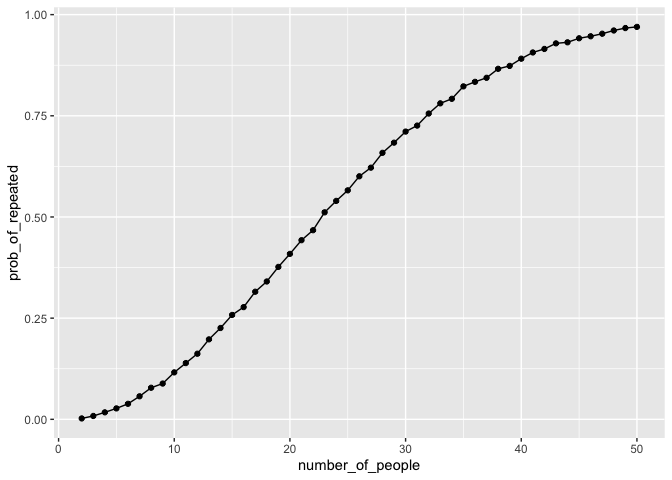
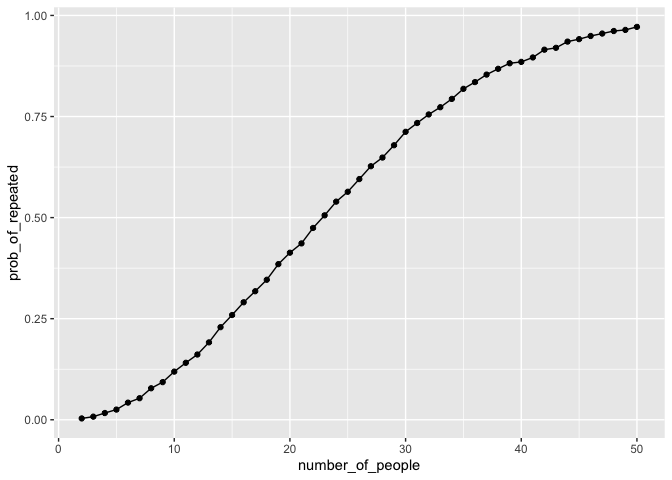
problem3

diff --git a/p8105_hw5_xl3712.md b/p8105_hw5_xl3712.md
@@ -18,7 +18,7 @@ library(tidyverse)
     ## ✖ dplyr::lag()    masks stats::lag()
     ## ℹ Use the conflicted package (<http://conflicted.r-lib.org/>) to force all conflicts to become errors
 
-# Problem 1
+## Problem 1
 
 ``` r
 birthday_repeated = function(n_room) {
@@ -56,7 +56,7 @@ sharing a birthday also increases. This is because larger groups have
 more possible pairs of people, increasing the chance of a birthday
 match.
 
-# Problem 2
+## Problem 2
 
 ``` r
 file_df = tibble(
@@ -250,3 +250,120 @@ but observations generally remained relatively low and did not
 demonstrate a clear increasing trend. In contrast, observations in the
 experimental group generally increased over time and were higher than
 those in control group, especially after approximately week 3.
+
+## Problem 3
+
+``` r
+n = 30
+sigma = 5
+mu = 0
+set.seed(1234)
+sim_t_test = function(mu, n = 30, sigma = 5){
+  sim_data = tibble(
+    x = rnorm(n, mean = mu, sd = sigma)
+  )
+  test_result = t.test(x ~ 1, data = sim_data, mu = 0)
+  
+  broom::tidy(test_result)|>
+    select(estimate, p.value)
+}
+
+sim_results_df = 
+  expand_grid(
+    true_mu = 0:6,
+    iter = 1:5000
+  )|>
+  mutate(
+    est_df = map(true_mu, sim_t_test)
+  )|>
+  unnest(est_df)|>
+  mutate(
+    reject_null = p.value < 0.05
+  )
+```
+
+``` r
+power_df = 
+  sim_results_df|>
+  group_by(true_mu)|>
+  summarise(
+    power = mean(reject_null)
+  )
+
+power_df|>
+  ggplot(aes(x = true_mu, y = power))+
+  geom_point()+
+  geom_line()
+```
+
+![](p8105_hw5_xl3712_files/figure-gfm/unnamed-chunk-6-1.png)<!-- -->
+
+There is a strong positive association between the true $\mu$ and power.
+When $\mu$ = 0, the rejection proportion is approximately 0.05, as
+expected given $\alpha$ = 0.05. As mu increases and moves father from
+the null value of zero, power increases sharply. For effects of $\mu$ ≥
+4, power is nearly 1.
+
+``` r
+estimate_df = 
+  sim_results_df|>
+  group_by(true_mu)|>
+  summarise(
+    avg_estimate = mean(estimate),
+    avg_estimate_rejected = mean(estimate[reject_null])
+  )
+
+estimate_df|>
+  ggplot(aes(x = true_mu, y = avg_estimate))+
+  geom_point()+
+  geom_line(
+    alpha = 0.8,
+    linewidth = 1.0
+  )+
+  geom_abline(
+    intercept = 0,
+    slope = 1,
+    linetype = "dashed",
+    color = "red",
+    linewidth = .9
+  )
+```
+
+![](p8105_hw5_xl3712_files/figure-gfm/unnamed-chunk-7-1.png)<!-- -->
+
+The average estimated $\hat{\mu}$ is approximately equal to the true
+value of $\mu$. The black line nearly overlaps with the red $y = x$
+reference line.
+
+``` r
+estimate_df_long = 
+  estimate_df|>
+  pivot_longer(
+    col = c(avg_estimate, avg_estimate_rejected),
+    names_to = "estimate_type",
+    values_to = "average_estimate"
+  )
+
+estimate_df_long|>
+  ggplot(aes(x = true_mu, y = average_estimate, color = estimate_type)) +
+  geom_line() +
+  geom_point() +
+  scale_color_discrete(
+    labels = c(avg_estimate = "All simulated samples",
+             avg_estimate_rejected = "Only rejected null hypothesis"))+
+  labs(
+    x = "True value of mu",
+    y = "Average estimated mu"
+  ) +
+  theme_minimal()
+```
+
+![](p8105_hw5_xl3712_files/figure-gfm/unnamed-chunk-8-1.png)<!-- -->
+
+The average estimate calculated only among samples that rejected the
+null hypothesis is not generally equal to the true $\mu$. For small true
+effects (i.e. $\mu$= 1,2), the mean estimate among only significant
+results is larger than the true $\mu$. This is because significant tests
+select samples whose estimates are unusually far from zero. As $\mu$
+gets larger and power approaches 1, almost all samples are significant,
+so this bias disappears.
